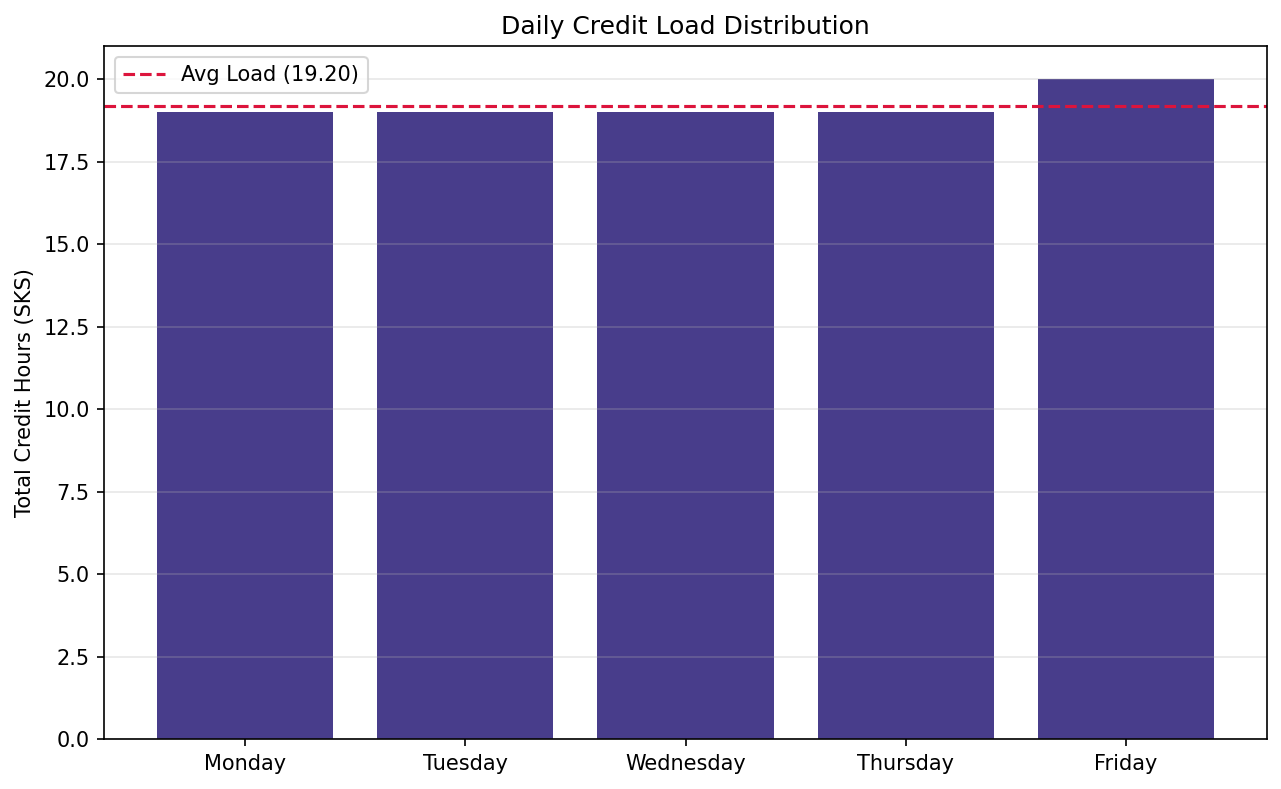
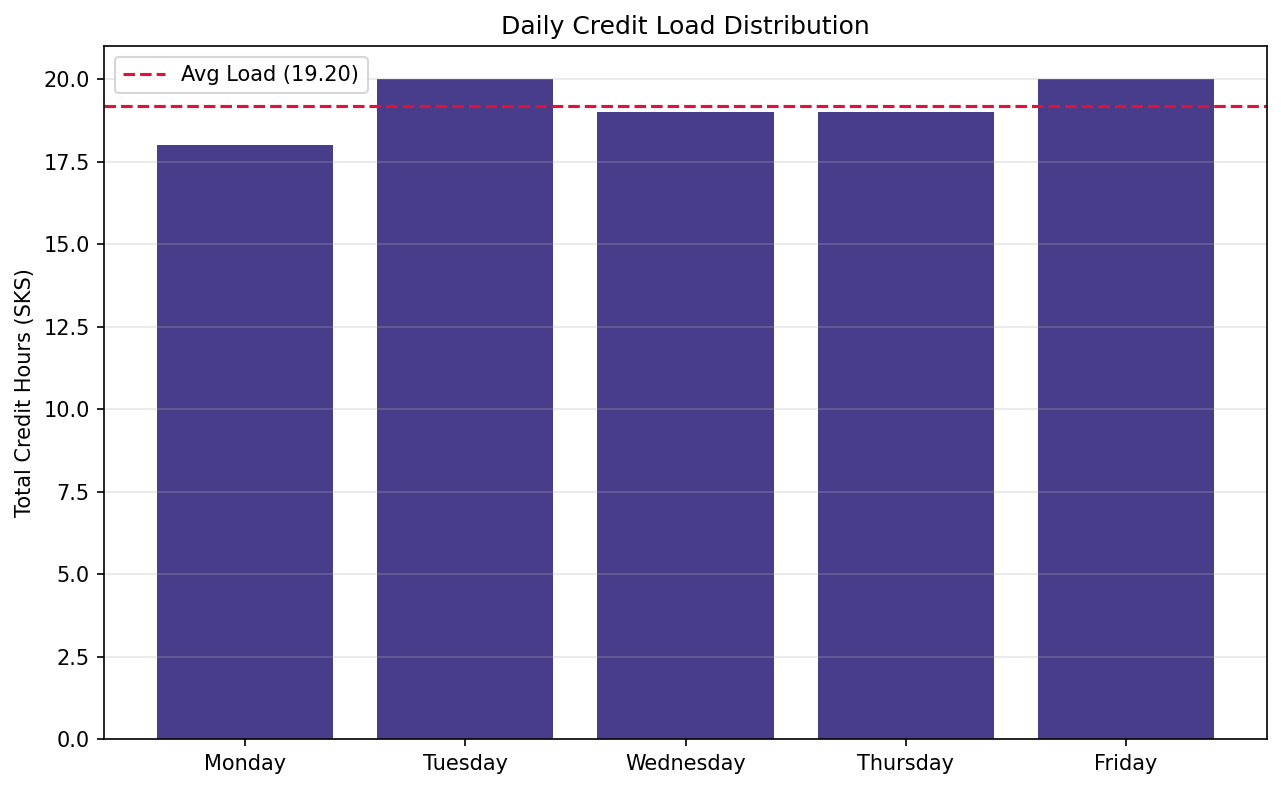
updated standar greede coloring function

Changed region(s): [[0.1249, 0.0913, 0.4372, 0.1825]]

diff --git a/graph_core.py b/graph_core.py
@@ -58,20 +58,21 @@ def is_safe_to_place(graph, course, day, start_time, current_schedule):
 def standard_greedy_coloring(graph):
     nodes_sorted = sorted(graph.nodes(), key=lambda n: graph.degree[n], reverse=True)
     result = {}
-    slot_usage = {(d, t): 0 for d in CONFIG['DAYS'] for t in AVAILABLE_START_TIMES}
-
+    
     for course in nodes_sorted:
-        potential = []
+        placed = False
         for day in CONFIG['DAYS']:
             for start in AVAILABLE_START_TIMES:
                 if is_safe_to_place(graph, course, day, start, result):
-                    potential.append((day, start))
+                    result[course] = (day, start)
+                    placed = True
+                    break
+            if placed: break
         
-        if potential:
-            best_slot = min(potential, key=lambda s: slot_usage[s])
-            result[course] = best_slot
-            slot_usage[best_slot] += 1
-            
+        if not placed:
+            print(f"[Warning] {course} failed to find a slot. Finding conflicting slot...")
+            result[course] = (CONFIG['DAYS'][0], AVAILABLE_START_TIMES[0]) 
+
     return result
 
 # --- LOAD CALCULATIONS ---
